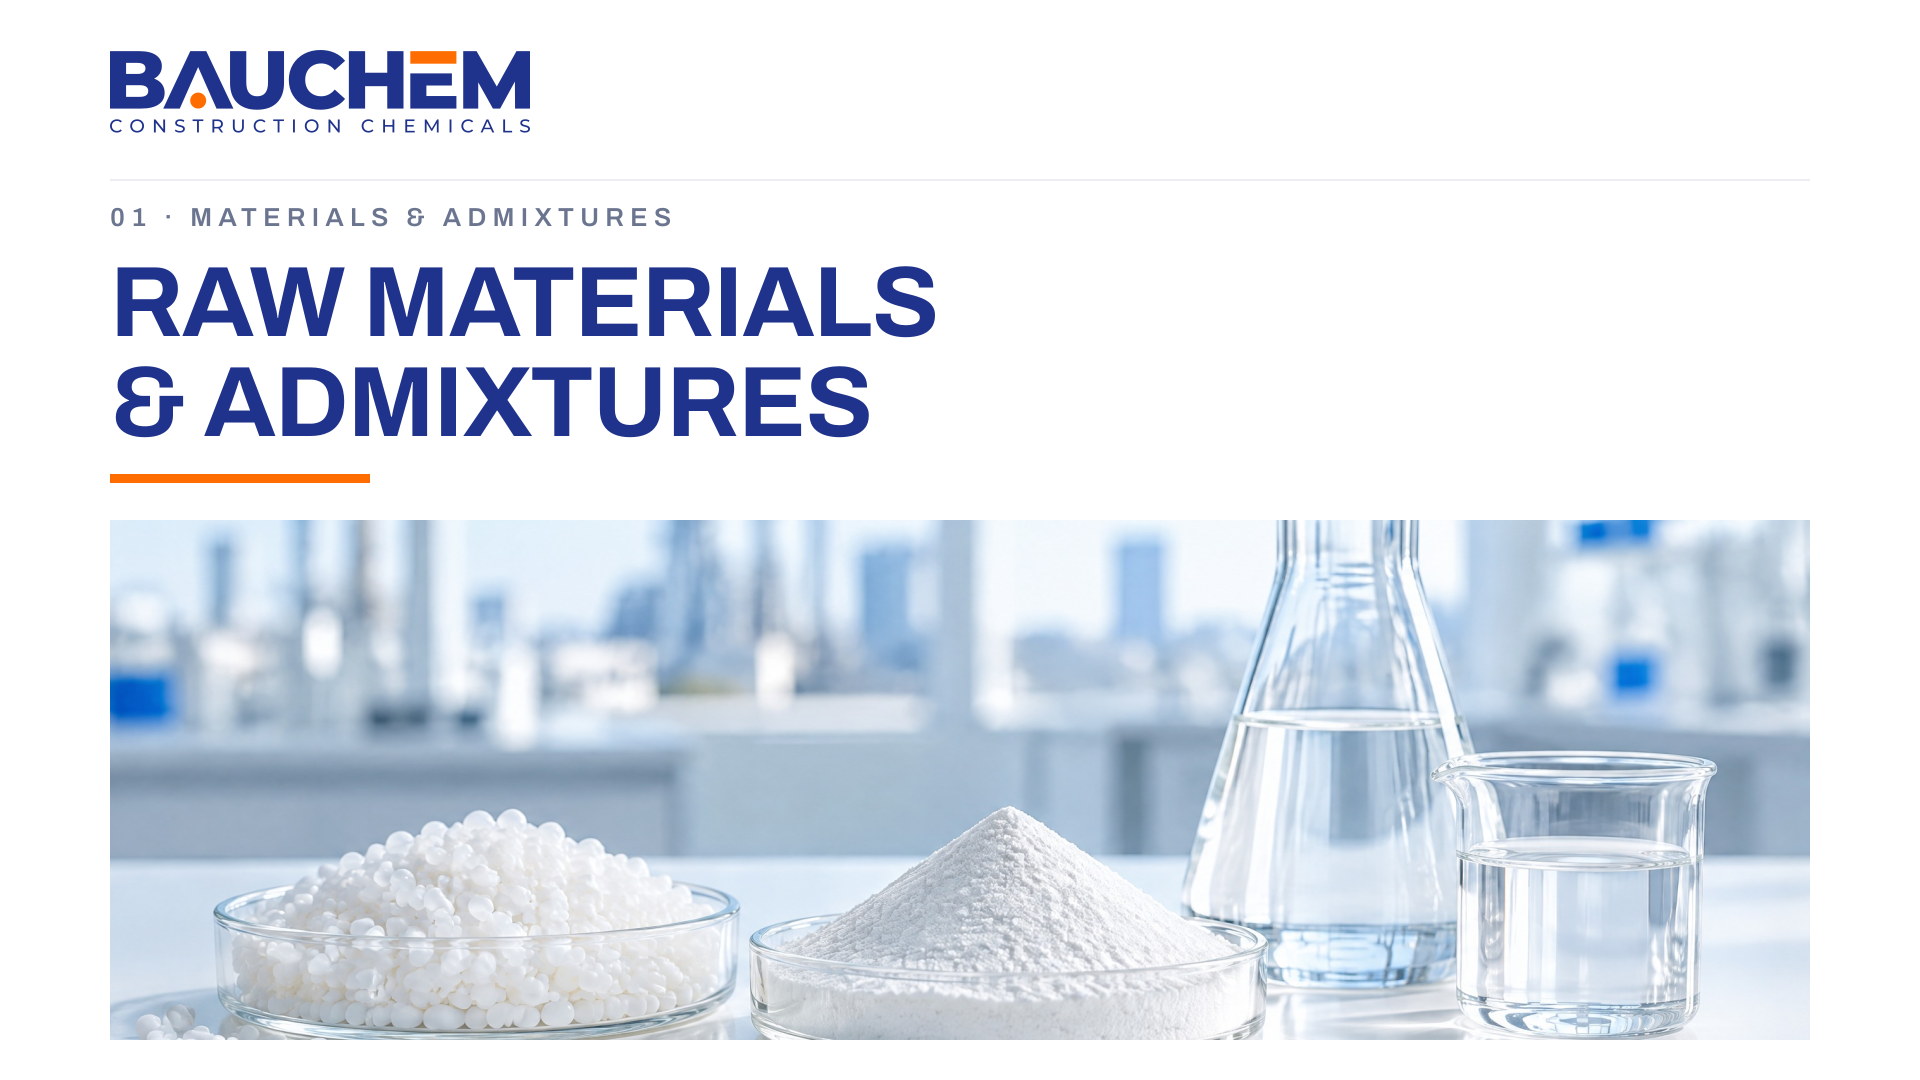
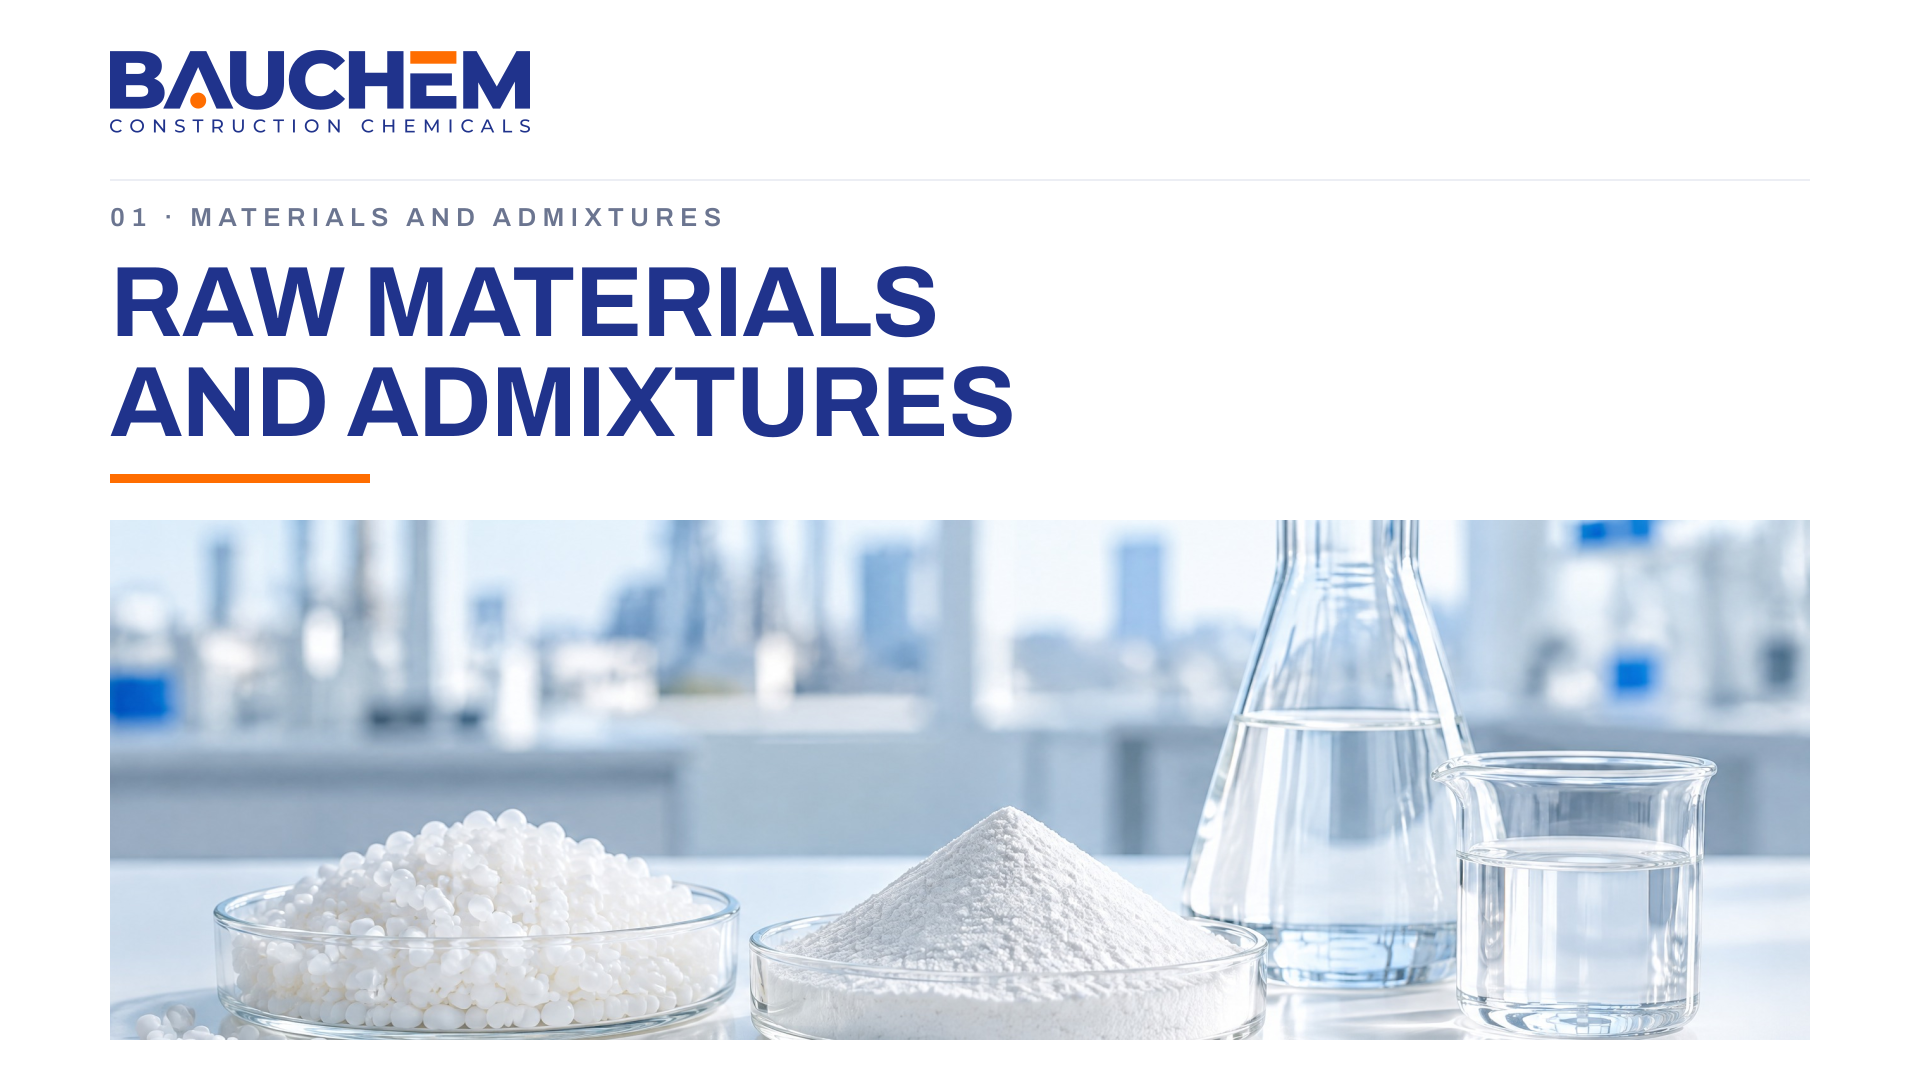
Drop the ampersand from layout copy and lint for it
Second report of the same thing: Archivo's ampersand has an unusual form
and reads as a typo, first on R01 and now in TV02's headline. TV02 is now
"RAW MATERIALS / AND ADMIXTURES" with the kicker to match.

Added tools/lint_copy.py, which scans the string literals in the v3 build
scripts and fails on banned characters, so this does not come back a
third time through a layout I did not re-read.

Claude-Session: https://claude.ai/code/session_01XCeF9UqU22qRqLY8bEz5Sr

Changed region(s): [[0.0625, 0.3361, 0.5312, 0.4278], [0.2188, 0.1833, 0.375, 0.2139]]

diff --git a/projects/bauchem-erbil-2026/tools/lint_copy.py b/projects/bauchem-erbil-2026/tools/lint_copy.py
@@ -1,0 +1,32 @@
+# -*- coding: utf-8 -*-
+"""
+Проверка текстов в макетах v3.
+Амперсанд в Archivo имеет непривычную форму и читается как опечатка — в макетах его не используем.
+"""
+import re, sys, glob, os
+
+BAN = {"&": 'амперсанд — писать словом "and"'}
+FILES = sorted(glob.glob(os.path.join(os.path.dirname(__file__), "..", "build", "v3_*.py")))
+STR = re.compile(r'"([^"\\]*)"|\'([^\'\\]*)\'')
+
+def main():
+    bad = []
+    for f in FILES:
+        for i, line in enumerate(open(f, encoding="utf-8"), 1):
+            if line.lstrip().startswith("#"):
+                continue
+            for m in STR.finditer(line):
+                text = m.group(1) or m.group(2) or ""
+                for ch, why in BAN.items():
+                    if ch in text:
+                        bad.append(f"{os.path.basename(f)}:{i}  {text!r}  — {why}")
+    if bad:
+        print("НАЙДЕНЫ ЗАПРЕЩЁННЫЕ СИМВОЛЫ В ТЕКСТАХ:")
+        for b in bad:
+            print("  " + b)
+        return 1
+    print(f"тексты чистые ({len(FILES)} файлов проверено)")
+    return 0
+
+if __name__ == "__main__":
+    sys.exit(main())

diff --git a/projects/bauchem-erbil-2026/build/v3_screen.py b/projects/bauchem-erbil-2026/build/v3_screen.py
@@ -54,7 +54,7 @@ def tv01():
 
 def tv02():
     c = _frame("TV02")
-    _head(c, "01 · Materials & admixtures", ["RAW MATERIALS", "& ADMIXTURES"], rule=False)
+    _head(c, "01 · Materials and admixtures", ["RAW MATERIALS", "AND ADMIXTURES"], rule=False)
     T.rule_accent(c, M, RULE_Y, 260, 9)
     _band(c, "img/L01_materials.png")
     c.save(os.path.join(OUT, "TV02"), png_px=1920)
